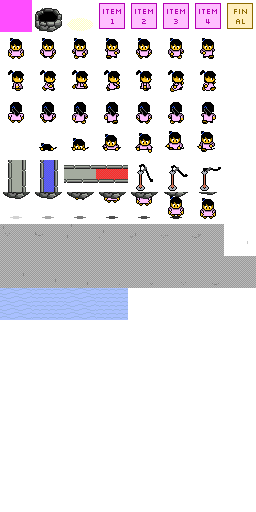
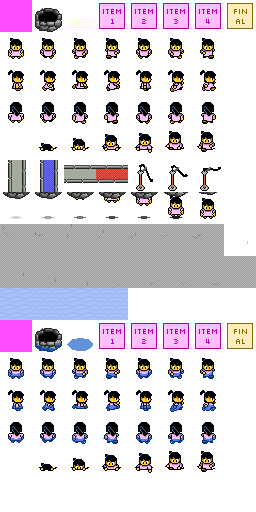
Make watery versions of tiles.

Changed region(s): [[0.0, 0.625, 1.0, 0.9375], [0.1562, 0.9062, 0.2188, 0.9375]]

diff --git a/src/game_layer.go b/src/game_layer.go
@@ -33,6 +33,10 @@ func NewWater() *twodee.AnimatingEntity {
 	)
 }
 
+const (
+	WaterEntityOffset = 80
+)
+
 type GameLayer struct {
 	Level                     *Level
 	BatchRenderer             *twodee.BatchRenderer
@@ -121,6 +125,8 @@ func (l *GameLayer) Render() {
 				l.Level.Geometry[i].SetTextureOffsetPx(0, 0)
 			case Wet:
 				l.Level.Geometry[i].SetTextureOffsetPx(0, -16)
+			case Flooded:
+				l.Level.Geometry[i].SetTextureOffsetPx(0, 0)
 			}
 			l.BatchRenderer.Draw(l.Level.Geometry[i], 0, y, 0)
 		}
@@ -130,11 +136,19 @@ func (l *GameLayer) Render() {
 
 			for _, item := range l.Level.Items[i] {
 				pt := item.Pos()
-				l.TileRenderer.Draw(item.Frame(), pt.X, pt.Y+y, 0, false, false)
+				frame := item.Frame()
+				if waterStatus == Wet && i != 0 {
+					frame += WaterEntityOffset
+				}
+				l.TileRenderer.Draw(frame, pt.X, pt.Y+y, 0, false, false)
 			}
 
 			pt := l.Level.Player.Pos()
-			l.TileRenderer.Draw(l.Level.Player.Frame(), pt.X, pt.Y+y, 0, l.Level.Player.FlippedX(), false)
+			frame := l.Level.Player.Frame()
+			if waterStatus == Wet && i != 0 {
+				frame += WaterEntityOffset
+			}
+			l.TileRenderer.Draw(frame, pt.X, pt.Y+y, 0, l.Level.Player.FlippedX(), false)
 			if i == 0 {
 				l.DrawOverlay(l.Rain)
 			} else if waterStatus == Flooded {
